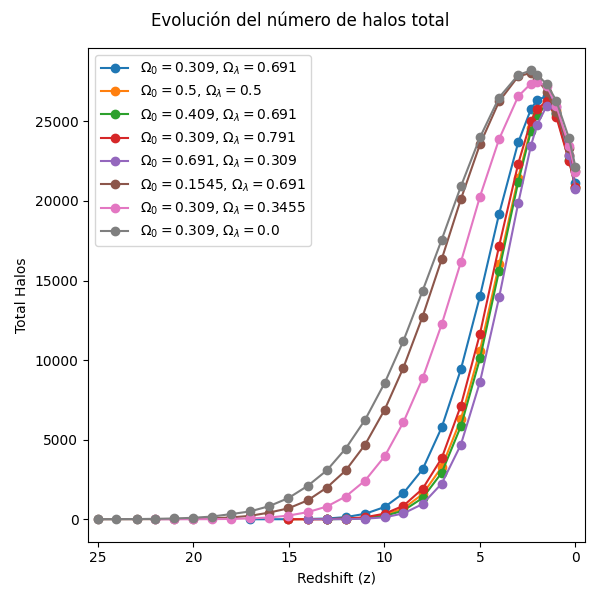
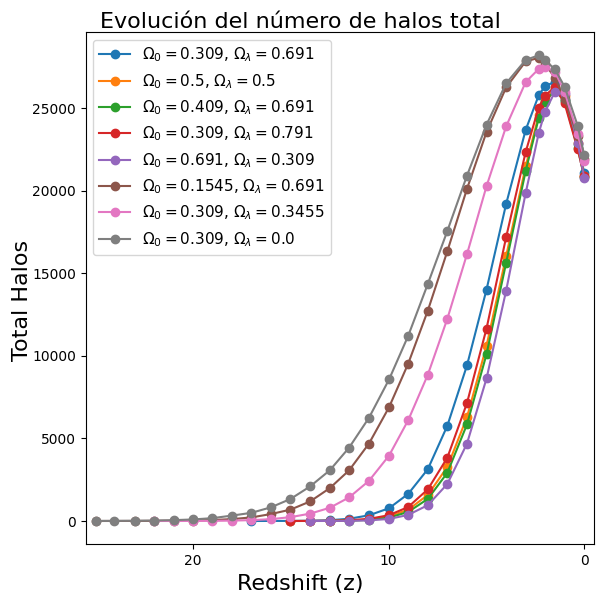
FontSize 'Total Halos Conc'

Changed region(s): [[0.0, 0.0, 1.0, 0.99]]

diff --git a/WorkingData/Total_Halos_Conc.py b/WorkingData/Total_Halos_Conc.py
@@ -5,6 +5,21 @@ from glob import glob
 # Generando Figura
 fig ,ax = plt.subplots( nrows = 1, ncols = 1, figsize = ( 6, 6 ) )
 
+LEGEND_SIZE= 11
+DEFAULT=4
+SMALL_SIZE = 22
+MEDIUM_SIZE = 22
+BIGGER_SIZE = 16
+
+plt.rcParams.update({'font.size': SMALL_SIZE})
+plt.rc('font', size=DEFAULT)          # controls default text sizes
+plt.rc('axes', titlesize=MEDIUM_SIZE)     # fontsize of the axes title
+plt.rc('axes', labelsize=MEDIUM_SIZE)    # fontsize of the x and y labels
+plt.rc('xtick', labelsize=SMALL_SIZE)    # fontsize of the tick labels
+plt.rc('ytick', labelsize=SMALL_SIZE)    # fontsize of the tick labels
+plt.rc('legend', fontsize=LEGEND_SIZE)    # legend fontsize
+plt.rc('figure', titlesize=BIGGER_SIZE)  # fontsize of the figure title
+
 # Loc de archivos para trabajar
 data = 'subhalo'
 dataParam = 'SubhaloMass'
@@ -61,8 +76,8 @@ for x in run:
     ax.plot(z, N_Subhalos,'o-' , label=nameParam)
 
 fig.suptitle('Evolución del número de halos total')
-ax.set_ylabel('Total Halos')
-ax.set_xlabel('Redshift (z)')
+fig.supylabel('Total Halos')
+fig.supxlabel('Redshift (z)')
 ax.set_xlim(round( max(z), ndigits=0 )+.5, -0.5)
 ax.legend(loc='best')
 
